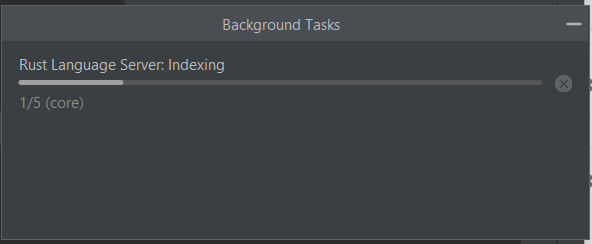
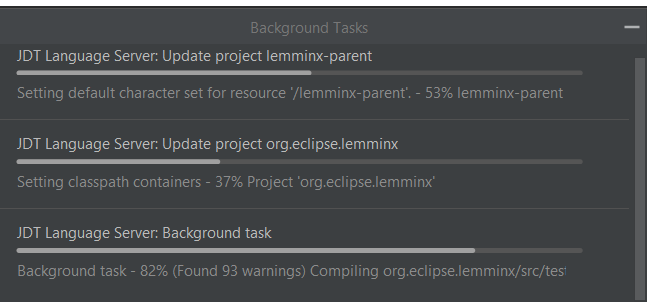
fix: LSP progress support loses some ProgressParams
Fixes #195

diff --git a/src/main/java/com/redhat/devtools/lsp4ij/features/progress/LSPProgressManager.java b/src/main/java/com/redhat/devtools/lsp4ij/features/progress/LSPProgressManager.java
@@ -59,12 +59,7 @@ public class LSPProgressManager implements Disposable {
     public CompletableFuture<Void> createProgress(final @NotNull WorkDoneProgressCreateParams params) {
         if (!isDisposed()) {
             String token = getToken(params.getToken());
-            LSPProgressInfo progress = progressMap.get(token);
-            if (progress != null) {
-                // An LSP progress already exists with this token, cancel it.
-                progress.cancel();
-            }
-            progressMap.put(token, new LSPProgressInfo(token));
+            getOrCreateProgressInfo(token);
         }
         return CompletableFuture.completedFuture(null);
     }
@@ -72,8 +67,8 @@ public class LSPProgressManager implements Disposable {
     private void createTask(LSPProgressInfo progressInfo) {
         String token = progressInfo.getToken();
         if (isProgressAlive(progressInfo)) {
-            // The progress has been done, cancelled, or the manager has been disposed,
-            // /don't create background task.
+            // The progress has been done, cancelled, or the manager has been disposed.
+            // --> don't create background task.
             progressMap.remove(token);
             return;
         }
@@ -90,7 +85,7 @@ public class LSPProgressManager implements Disposable {
                             // The user has clicked on cancel icon of the progress bar.
                             progressMap.remove(token);
                             if (languageServer != null) {
-                                // Cancel the LSP progress on language server side..
+                                // Cancel the LSP progress on language server side.
                                 final var workDoneProgressCancelParams = new WorkDoneProgressCancelParams();
                                 workDoneProgressCancelParams.setToken(token);
                                 languageServer.cancelProgress(workDoneProgressCancelParams);
@@ -109,7 +104,7 @@ public class LSPProgressManager implements Disposable {
                         }
                         if (progressNotification != null) {
                             WorkDoneProgressKind kind = progressNotification.getKind();
-                            switch(kind) {
+                            switch (kind) {
                                 case begin -> // 'begin' has been notified
                                         begin((WorkDoneProgressBegin) progressNotification, indicator);
                                 case report -> // 'report' has been notified
@@ -157,36 +152,64 @@ public class LSPProgressManager implements Disposable {
      * @param params the {@link ProgressParams} used for the progress notification
      */
     public void notifyProgress(final @NotNull ProgressParams params) {
-        if (isDisposed()) {
+        if (params.getValue() == null || params.getToken() == null || isDisposed()) {
+            return;
+        }
+        var value = params.getValue();
+        if (value.isRight()) {
+            // TODO: Partial Result Progress
+            // https://microsoft.github.io/language-server-protocol/specifications/specification-current/#partialResults
+            return;
+        }
+
+        if (!value.isLeft()) {
+            return;
+        }
+
+        // Work Done Progress
+        // https://microsoft.github.io/language-server-protocol/specifications/specification-current/#workDoneProgress
+        WorkDoneProgressNotification progressNotification = value.getLeft();
+        WorkDoneProgressKind kind = progressNotification.getKind();
+        if (kind == null) {
             return;
         }
         String token = getToken(params.getToken());
         LSPProgressInfo progress = progressMap.get(token);
         if (progress == null) {
-            // may happen if the server does not wait on the return value of the future of createProgress
-            return;
-        }
-        var value = params.getValue();
-        if (value == null || !value.isLeft()) {
-            return;
-        }
-        WorkDoneProgressNotification progressNotification = value.getLeft();
-        if (progressNotification != null) {
-            // Add the progress notification
-            progress.addProgressNotification(progressNotification);
-            switch (progressNotification.getKind()) {
-                case begin -> {
-                    // 'begin' progress
-                    WorkDoneProgressBegin begin = (WorkDoneProgressBegin) progressNotification;
-                    progress.setTitle(begin.getTitle());
-                    progress.setCancellable(begin.getCancellable() != null && begin.getCancellable());
-                    // The IJ task is created on 'begin' and not on 'create' to initialize
-                    // the Task with the 'begin' title.
-                    createTask(progress);
-                }
-                case end -> progress.setDone(true);
+            // The server is not spec-compliant and reports progress using server-initiated progress but didn't
+            // call window/workDoneProgress/create beforehand. In that case, we check the 'kind' field of the
+            // progress data. If the 'kind' field is 'begin', we set up a progress reporter anyway.
+            if (kind != WorkDoneProgressKind.begin) {
+                return;
             }
+            progress = getOrCreateProgressInfo(token);
         }
+
+        // Add the progress notification
+        progress.addProgressNotification(progressNotification);
+        switch (progressNotification.getKind()) {
+            case begin -> {
+                // 'begin' progress
+                WorkDoneProgressBegin begin = (WorkDoneProgressBegin) progressNotification;
+                progress.setTitle(begin.getTitle());
+                progress.setCancellable(begin.getCancellable() != null && begin.getCancellable());
+                // The IJ task is created on 'begin' and not on 'create' to initialize
+                // the Task with the 'begin' title.
+                createTask(progress);
+            }
+            case end -> progress.setDone(true);
+        }
+    }
+
+    @NotNull
+    private synchronized LSPProgressInfo getOrCreateProgressInfo(String token) {
+        LSPProgressInfo progress = progressMap.get(token);
+        if (progress != null) {
+            return progress;
+        }
+        progress = new LSPProgressInfo(token);
+        progressMap.put(token, progress);
+        return progress;
     }
 
     private static String getToken(Either<String, Integer> token) {

diff --git a/docs/LSPSupport.md b/docs/LSPSupport.md
@@ -109,7 +109,7 @@ Current state of [Window Features]( https://microsoft.github.io/language-server-
 
 [$/progress](https://microsoft.github.io/language-server-protocol/specifications/lsp/3.17/specification/#progress) is implemented with `Background Tasks`.
 
-Here a sample with [Rust Analyzer](https://rust-analyzer.github.io/):
+Here a sample with [Eclipse JDT Language Server](https://github.com/eclipse-jdtls/eclipse.jdt.ls):
 
 ![$/progress](./images/lsp-support/progress.png)
 
